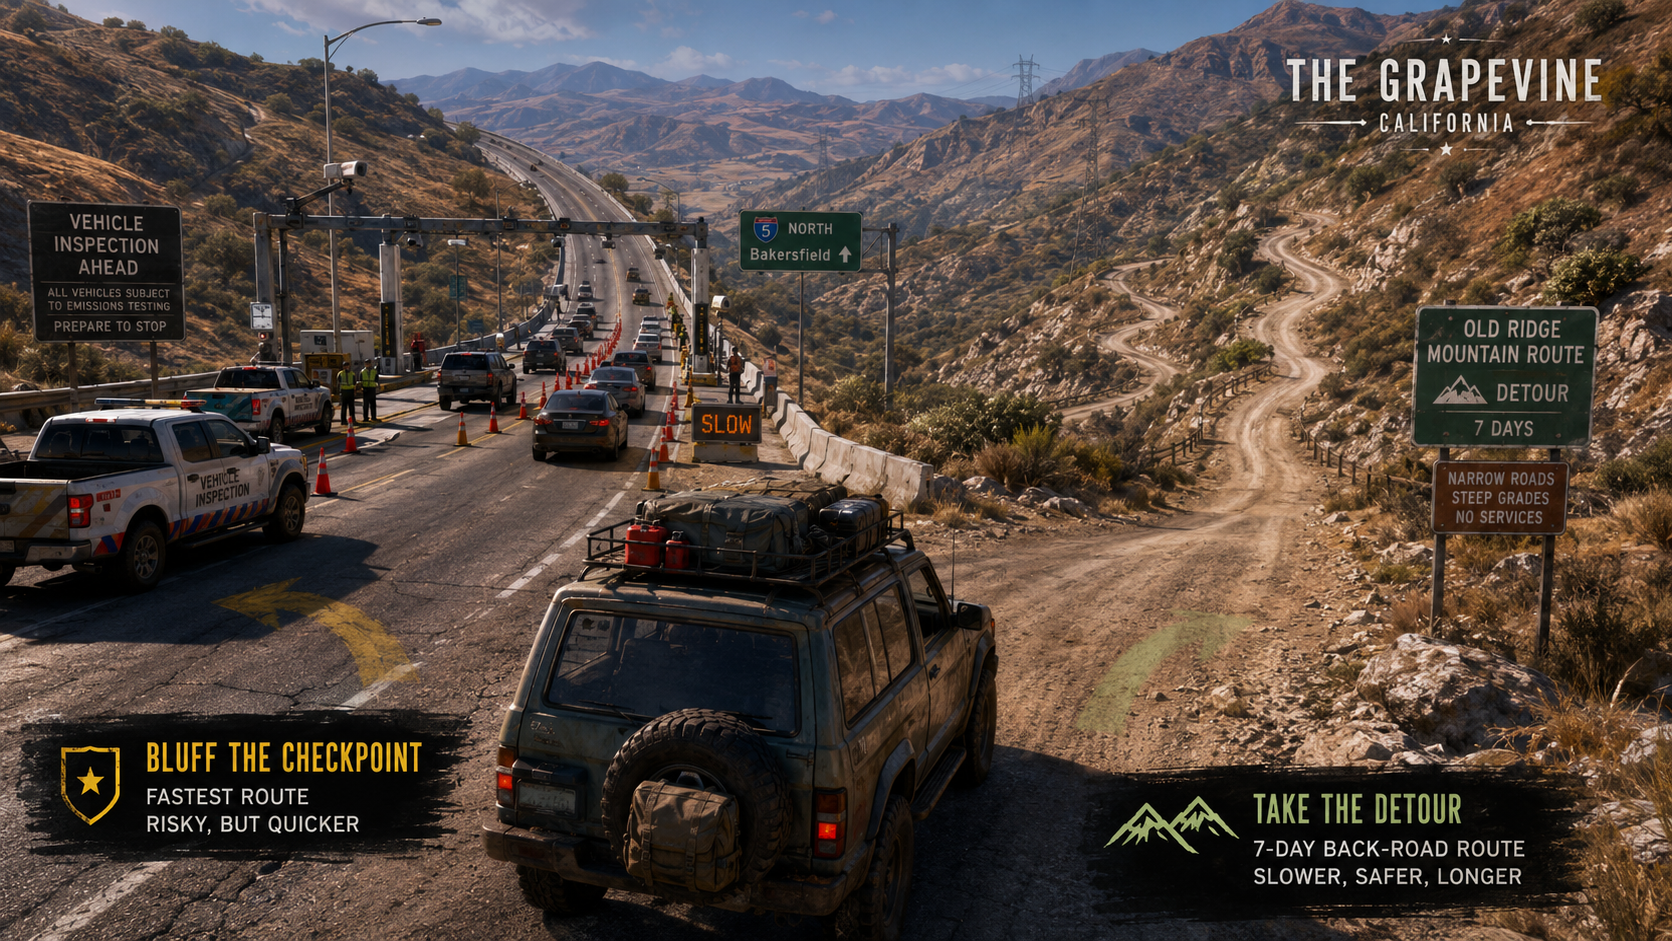
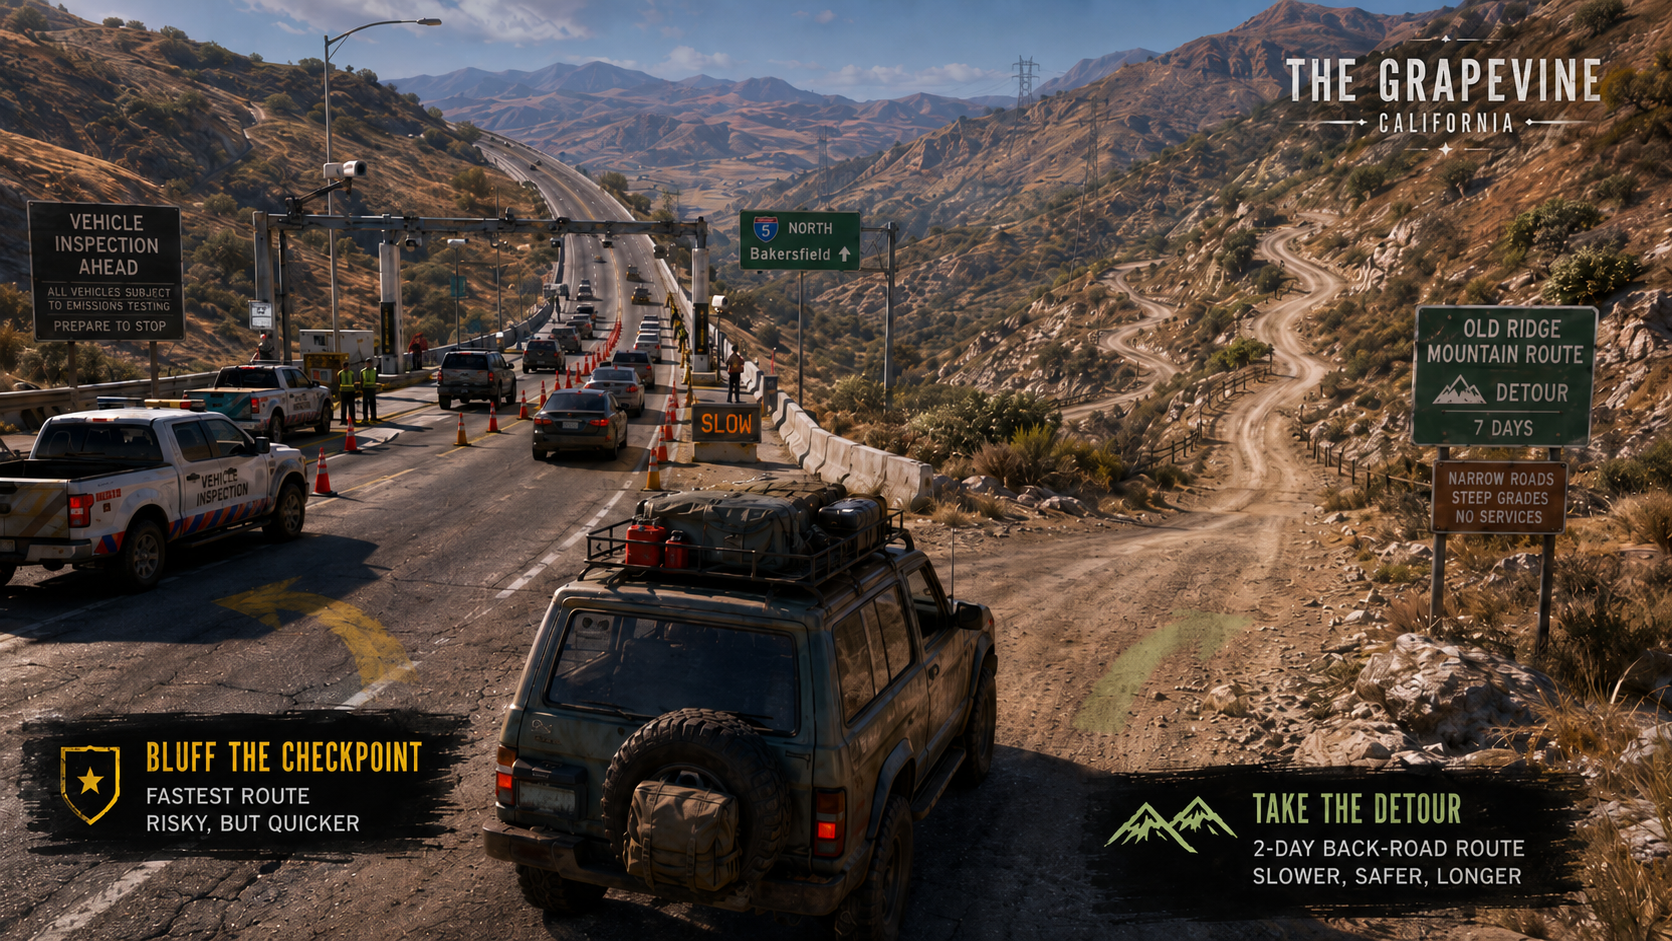
Update UI assets, styles, and event/landmark visuals

diff --git a/index.html b/index.html
@@ -6,6 +6,7 @@
   <meta name="viewport" content="width=device-width, initial-scale=1.0">
   <link rel="icon" type="image/png" href="img/ui/favicon.png">
   <link href="https://fonts.googleapis.com/css?family=Londrina+Solid:300,400,900" rel="stylesheet">
+  <link href="https://fonts.googleapis.com/css2?family=Bebas+Neue&display=swap" rel="stylesheet">
   <link rel="stylesheet" href="https://maxcdn.bootstrapcdn.com/bootstrap/4.0.0/css/bootstrap.min.css" integrity="sha384-Gn5384xqQ1aoWXA+058RXPxPg6fy4IWvTNh0E263XmFcJlSAwiGgFAW/dAiS6JXm" crossorigin="anonymous">
   <link href="css/styles.css" rel="stylesheet">
   <audio id="jesusSnatch" src="sounds/jesusWheel.mp3" preload="auto"></audio>
@@ -25,20 +26,27 @@
 <body>
   <div class="container">
 
-    <!-- â”€â”€ START SCREEN â”€â”€â”€â”€â”€â”€â”€â”€â”€â”€â”€â”€â”€â”€â”€â”€â”€â”€â”€â”€â”€â”€â”€â”€â”€â”€â”€â”€â”€â”€â”€â”€â”€â”€â”€â”€â”€â”€â”€â”€â”€â”€â”€â”€â”€â”€â”€â”€â”€â”€â”€ -->
+    <!-- START SCREEN -->
     <div id="characterSetup">
       <div id="start">
+        <div id="slideshow">
+          <div class="slide slide-1"></div>
+          <div class="slide slide-2"></div>
+          <div class="slide slide-3"></div>
+          <div class="slide-overlay"></div>
+        </div>
         <div class="main-title">
           <h1>Escape From Cali</h1>
         </div>
         <div class="icon-animate"></div>
         <div class="icon-vehicle"></div>
-        <img src="img/scenes/start-cover.jpg" alt="Los Angeles 2050">
-        <p class="start-tagline">Gavin Newsom's tax regime has broken the state.<br>Fortune 500 companies fled. Homelessness, crime, and cost of living have reached a breaking point.<br>Without rule of law, you're forced to relocate to greener pastures.</p>
-        <span id="startBTN" class="btn btn-danger">Escape</span>
+        <div class="start-bottom">
+          <p class="start-tagline">Gavin Newsom's tax regime has broken the state.<br>Fortune 500 companies fled. Homelessness, crime, and cost of living have reached a breaking point.<br>Without rule of law, you're forced to relocate to greener pastures.</p>
+          <span id="startBTN" class="btn btn-danger">ESCAPE!</span>
+        </div>
       </div>
 
-      <!-- â”€â”€ CLASS + PARTY NAMING â”€â”€â”€â”€â”€â”€â”€â”€â”€â”€â”€â”€â”€â”€â”€â”€â”€â”€â”€â”€â”€â”€â”€â”€â”€â”€â”€â”€â”€â”€â”€â”€â”€â”€â”€â”€â”€â”€â”€â”€â”€ -->
+      <!-- CLASS + PARTY NAMING -->
       <div id="characterInput">
         <h1>Escape From Cali</h1>
         <div class="row">
@@ -83,7 +91,7 @@
       </div>
     </div>
 
-    <!-- â”€â”€ DESTINATION SELECTION â”€â”€â”€â”€â”€â”€â”€â”€â”€â”€â”€â”€â”€â”€â”€â”€â”€â”€â”€â”€â”€â”€â”€â”€â”€â”€â”€â”€â”€â”€â”€â”€â”€â”€â”€â”€â”€â”€â”€â”€â”€â”€â”€â”€ -->
+    <!-- DESTINATION SELECTION -->
     <div id="destinationSelect">
       <h1>Choose Your Destination</h1>
       <p class="screen-subtitle">Where are you heading?</p>
@@ -111,7 +119,7 @@
       </div>
     </div>
 
-    <!-- â”€â”€ KIT SELECTION â”€â”€â”€â”€â”€â”€â”€â”€â”€â”€â”€â”€â”€â”€â”€â”€â”€â”€â”€â”€â”€â”€â”€â”€â”€â”€â”€â”€â”€â”€â”€â”€â”€â”€â”€â”€â”€â”€â”€â”€â”€â”€â”€â”€â”€â”€â”€â”€â”€â”€â”€â”€ -->
+    <!-- KIT SELECTION -->
     <div id="kitSelect">
       <h1>Choose Your Kit</h1>
       <p class="screen-subtitle">What are you bringing?</p>
@@ -139,7 +147,7 @@
       </div>
     </div>
 
-    <!-- â”€â”€ VEHICLE SELECTION â”€â”€â”€â”€â”€â”€â”€â”€â”€â”€â”€â”€â”€â”€â”€â”€â”€â”€â”€â”€â”€â”€â”€â”€â”€â”€â”€â”€â”€â”€â”€â”€â”€â”€â”€â”€â”€â”€â”€â”€â”€â”€â”€â”€â”€â”€â”€â”€â”€â”€ -->
+    <!-- VEHICLE SELECTION -->
     <div id="vehicleSelect">
       <h1>Choose Your Vehicle</h1>
       <p class="screen-subtitle">What are you driving out?</p>
@@ -162,7 +170,7 @@
       </div>
     </div>
 
-    <!-- â”€â”€ SUPPLY RUN (STORE) â”€â”€â”€â”€â”€â”€â”€â”€â”€â”€â”€â”€â”€â”€â”€â”€â”€â”€â”€â”€â”€â”€â”€â”€â”€â”€â”€â”€â”€â”€â”€â”€â”€â”€â”€â”€â”€â”€â”€â”€â”€â”€â”€â”€â”€â”€â”€ -->
+    <!-- SUPPLY RUN (STORE) -->
     <div id="store">
       <div class="store-fields">
         <div class="store-titles">
@@ -215,7 +223,7 @@
       </div>
     </div>
 
-    <!-- â”€â”€ MAIN GAMEPLAY â”€â”€â”€â”€â”€â”€â”€â”€â”€â”€â”€â”€â”€â”€â”€â”€â”€â”€â”€â”€â”€â”€â”€â”€â”€â”€â”€â”€â”€â”€â”€â”€â”€â”€â”€â”€â”€â”€â”€â”€â”€â”€â”€â”€â”€â”€â”€â”€â”€â”€â”€â”€ -->
+    <!-- MAIN GAMEPLAY -->
     <div id="gameMainScreen">
 
       <!-- header -->
@@ -349,4 +357,7 @@
   </div>
 </body>
 </html>
+
+
+
 

diff --git a/css/animations.css b/css/animations.css
@@ -82,22 +82,41 @@
 
 /* â”€â”€ Sky phases â”€â”€â”€â”€â”€â”€â”€â”€â”€â”€â”€â”€â”€â”€â”€â”€â”€â”€â”€â”€â”€â”€â”€â”€â”€â”€â”€â”€â”€â”€â”€â”€â”€â”€â”€â”€â”€â”€â”€â”€â”€â”€â”€â”€â”€â”€â”€â”€â”€â”€â”€â”€â”€â”€â”€â”€â”€â”€â”€ */
 
-.sky1 { background-image: url(/img/scenes/la-start.png); }
-.sky2 { background-image: url(/img/scenes/la-start.png); }
-.sky3 { background-image: url(/img/scenes/la-start.png); }
-.sky4 { background-image: url(/img/scenes/la-start.png); }
-.sky5 { background-image: url(/img/scenes/la-start.png); }
-.sky6 { background-image: url(/img/scenes/la-start.png); }
+@keyframes smogPulse {
+  0%   { background-color: #b5601a; }
+  30%  { background-color: #8b2500; }
+  60%  { background-color: #c4881a; }
+  80%  { background-color: #a83222; }
+  100% { background-color: #b5601a; }
+}
+
+.sky1, .sky2, .sky3, .sky4, .sky5, .sky6 {
+  background-image: url(/img/scenes/la-start.png);
+  background-color: #b5601a;
+  animation: smogPulse 10s ease-in-out infinite;
+}
 
 .sky-cali {
   background-image:
     linear-gradient(to bottom, rgba(181, 96, 26, 0.65) 0%, rgba(181, 96, 26, 0.2) 55%, transparent 100%),
     url(/img/scenes/la-start.png);
-  background-color: #b5601a;
+  animation: smogPulse 10s ease-in-out infinite;
 }
 
 #vehicle-images.sky-cali::before,
-#vehicle-images.sky-cali::after {
+#vehicle-images.sky-cali::after,
+#vehicle-images.sky1::before,
+#vehicle-images.sky1::after,
+#vehicle-images.sky2::before,
+#vehicle-images.sky2::after,
+#vehicle-images.sky3::before,
+#vehicle-images.sky3::after,
+#vehicle-images.sky4::before,
+#vehicle-images.sky4::after,
+#vehicle-images.sky5::before,
+#vehicle-images.sky5::after,
+#vehicle-images.sky6::before,
+#vehicle-images.sky6::after {
   content: '';
   position: absolute;
   bottom: 40%;
@@ -111,13 +130,19 @@
   pointer-events: none;
 }
 
-#vehicle-images.sky-cali::before {
+#vehicle-images.sky-cali::before,
+#vehicle-images.sky1::before, #vehicle-images.sky2::before,
+#vehicle-images.sky3::before, #vehicle-images.sky4::before,
+#vehicle-images.sky5::before, #vehicle-images.sky6::before {
   left: 18%;
   animation-duration: 3.5s;
   animation-delay: 0s;
 }
 
-#vehicle-images.sky-cali::after {
+#vehicle-images.sky-cali::after,
+#vehicle-images.sky1::after, #vehicle-images.sky2::after,
+#vehicle-images.sky3::after, #vehicle-images.sky4::after,
+#vehicle-images.sky5::after, #vehicle-images.sky6::after {
   left: 62%;
   width: 24px;
   height: 80px;
@@ -131,8 +156,8 @@
   100% { transform: translateY(-65px) scaleX(1.8); opacity: 0; }
 }
 
-.sky-desert   { background-image: url(/img/scenes/mountains.png); background-color: #e8c870; }
-.sky-plateau  { background-image: url(/img/scenes/socal_small.png); background-color: #5a9fd4; }
+.sky-desert   { background-image: url(/img/scenes/socal_smallB.png); background-color: #e8c870; }
+.sky-plateau  { background-image: url(/img/scenes/mountains.png); background-color: #5a9fd4; }
 .sky-mountain { background-image: url(/img/scenes/mountains.png); background-color: #3a70a8; }
 .sky-golden   { background-image: url(/img/scenes/mountains.png); background-color: #e08840; }
 .sky-dusk     { background-image: url(/img/scenes/mountains.png); background-color: #b04030; }

diff --git a/css/screens.css b/css/screens.css
@@ -10,41 +10,93 @@
 /* â”€â”€ Start screen â”€â”€â”€â”€â”€â”€â”€â”€â”€â”€â”€â”€â”€â”€â”€â”€â”€â”€â”€â”€â”€â”€â”€â”€â”€â”€â”€â”€â”€â”€â”€â”€â”€â”€â”€â”€â”€â”€â”€â”€â”€â”€â”€â”€â”€â”€â”€â”€â”€â”€â”€â”€â”€â”€â”€â”€â”€ */
 
 #start {
+  position: relative;
   text-align: center;
+  height: 480px;
+  overflow: hidden;
 }
 
-#start img {
-  width: 100%;
-  margin-bottom: 10px;
+/* Ken Burns slideshow */
+#slideshow {
+  position: absolute;
+  inset: 0;
+  z-index: 0;
 }
 
+.slide {
+  position: absolute;
+  inset: 0;
+  background-size: cover;
+  background-position: center;
+  opacity: 0;
+  animation: kenBurns 18s infinite;
+}
+
+.slide-1 { background-image: url(/img/scenes/start-cda.png);     animation-delay: 0s; }
+.slide-2 { background-image: url(/img/scenes/start-mont.png);    animation-delay: 6s; }
+.slide-3 { background-image: url(/img/scenes/start-jackson.png); animation-delay: 12s; }
+
+@keyframes kenBurns {
+  0%   { opacity: 0; transform: scale(1.0) translate(0%, 0%); }
+  8%   { opacity: 1; }
+  45%  { opacity: 1; }
+  55%  { opacity: 0; transform: scale(1.12) translate(-2%, -1%); }
+  100% { opacity: 0; transform: scale(1.0) translate(0%, 0%); }
+}
+
+.slide-overlay {
+  position: absolute;
+  inset: 0;
+  background: linear-gradient(
+    to bottom,
+    rgba(0,0,0,0.15) 0%,
+    rgba(0,0,0,0.05) 40%,
+    rgba(0,0,0,0.55) 100%
+  );
+}
+
+/* Content layers above slideshow */
 .main-title {
   position: absolute;
   top: 21%;
   left: 50%;
   transform: translate(-50%, -50%);
+  z-index: 1;
 }
 
 .main-title h1 {
+  font-family: 'Bebas Neue', cursive;
   font-size: 75px;
-  color: #c0392b;
-  text-shadow: 2px 2px 8px rgba(0,0,0,0.4);
+  letter-spacing: 6px;
+  color: #fff;
+  text-shadow: 3px 3px 16px rgba(0,0,0,0.85);
   animation: titleeffect 10s linear 0s 1 normal;
   -moz-animation: 10s linear 0s normal none 1 titleeffect;
   -webkit-animation: titleeffect 10s linear 0s 1 normal;
 }
 
+.start-bottom {
+  position: absolute;
+  bottom: 2rem;
+  left: 50%;
+  transform: translateX(-50%);
+  z-index: 1;
+  width: 100%;
+}
+
 .start-tagline {
-  font-size: 16px;
+  font-size: 18px;
   font-weight: 300;
-  color: #555;
-  margin: 1rem auto;
+  color: #f0f0f0;
+  background: rgba(0,0,0,0.45);
+  padding: 10px 16px;
+  border-radius: 4px;
+  margin: 0 auto 1rem;
   max-width: 500px;
   line-height: 1.6;
 }
 
 #startBTN {
-  margin-top: 1.5rem;
   width: 40%;
   font-size: 1.3rem;
   letter-spacing: 2px;

diff --git a/src/landmarks.js b/src/landmarks.js
@@ -12,7 +12,7 @@ export function landmarkEvent() {
       image: 'events/grapevine.png',
       btn1: { id: 'crossRiver', label: 'Bluff It' },
       btn2: { id: 'detourRiver', label: 'Detour' },
-      message: "CARB enforcement units are scanning vehicles on the Grapevine. You can attempt to bluff through the checkpoint or take a back-road detour through the mountains (7 days)."
+      message: "CARB enforcement units are scanning vehicles on the Grapevine. You can attempt to bluff through the checkpoint or take a back-road detour through the mountains (2 days)."
     };
   } else if (dist === mark(0.4)) {
     return {
@@ -42,14 +42,14 @@ export function landmarkEvent() {
 
 export function detourRiver() {
   const { vehicle } = getState();
-  for (let i = 0; i < 8; i++) {
+  for (let i = 0; i < 2; i++) {
     vehicle.days += 1;
     vehicle.food -= vehicle.characters.length * 5;
     vehicle.resourceChecker();
     vehicle.statusAdjuster();
   }
   vehicle.statusAdjuster();
-  return { message: 'You took the back roads through the mountains. Seven hard days but no checkpoint.' };
+  return { message: 'You took the back roads through the mountains. Two hard days but no checkpoint.' };
 }
 
 export function crossRiver() {

diff --git a/src/ui.js b/src/ui.js
@@ -258,6 +258,14 @@ export function cycleVehicleImage(state) {
   const jeep   = document.getElementById('jeep-main');
 
   if (next === 1) {
+    // Jeep completed a full run — now update the scene
+    const dist = state.vehicle ? state.vehicle.distance : 0;
+    const goal = state.goalDistance || 500;
+    const pct  = (dist / goal) * 100;
+    const phase = SKY_PHASES.find(p => pct <= p.maxPct) || SKY_PHASES[SKY_PHASES.length - 1];
+    images.classList.remove(...ALL_SKY);
+    images.classList.add(phase.cls);
+
     // Reset: fade out, reposition, fade back in
     jeep.style.transition = 'opacity 150ms ease-out';
     jeep.style.opacity = '0';
@@ -272,13 +280,6 @@ export function cycleVehicleImage(state) {
   } else {
     jeep.style.left = JEEP_POSITIONS[next];
   }
-
-  const dist = state.vehicle ? state.vehicle.distance : 0;
-  const goal = state.goalDistance || 500;
-  const pct  = (dist / goal) * 100;
-  const phase = SKY_PHASES.find(p => pct <= p.maxPct) || SKY_PHASES[SKY_PHASES.length - 1];
-  images.classList.remove(...ALL_SKY);
-  images.classList.add(phase.cls);
 
   state.vehicleImageIndex = next;
 }

diff --git a/src/handlers.js b/src/handlers.js
@@ -8,7 +8,7 @@ import * as ui from './ui.js';
 
 export function initHandlers() {
   // Initialize vehicle image sky class
-  document.getElementById('vehicle-images').classList.add('sky1');
+  document.getElementById('vehicle-images').classList.add('sky-cali');
 
   // Close #myModal when clicking anywhere on it
   document.getElementById('myModal').addEventListener('click', () => ui.hideInfoModal());
@@ -276,7 +276,7 @@ function handleResult(result, vehicle, allChars) {
   } else if (result.type === 'antifa') {
     setState({ antifaTax: result.tax });
     ui.showChoiceModal(
-      'events/fleeFail',
+      'events/antifa-i5.png',
       result.btn1.id,
       result.btn2.id,
       result.btn1.label,
